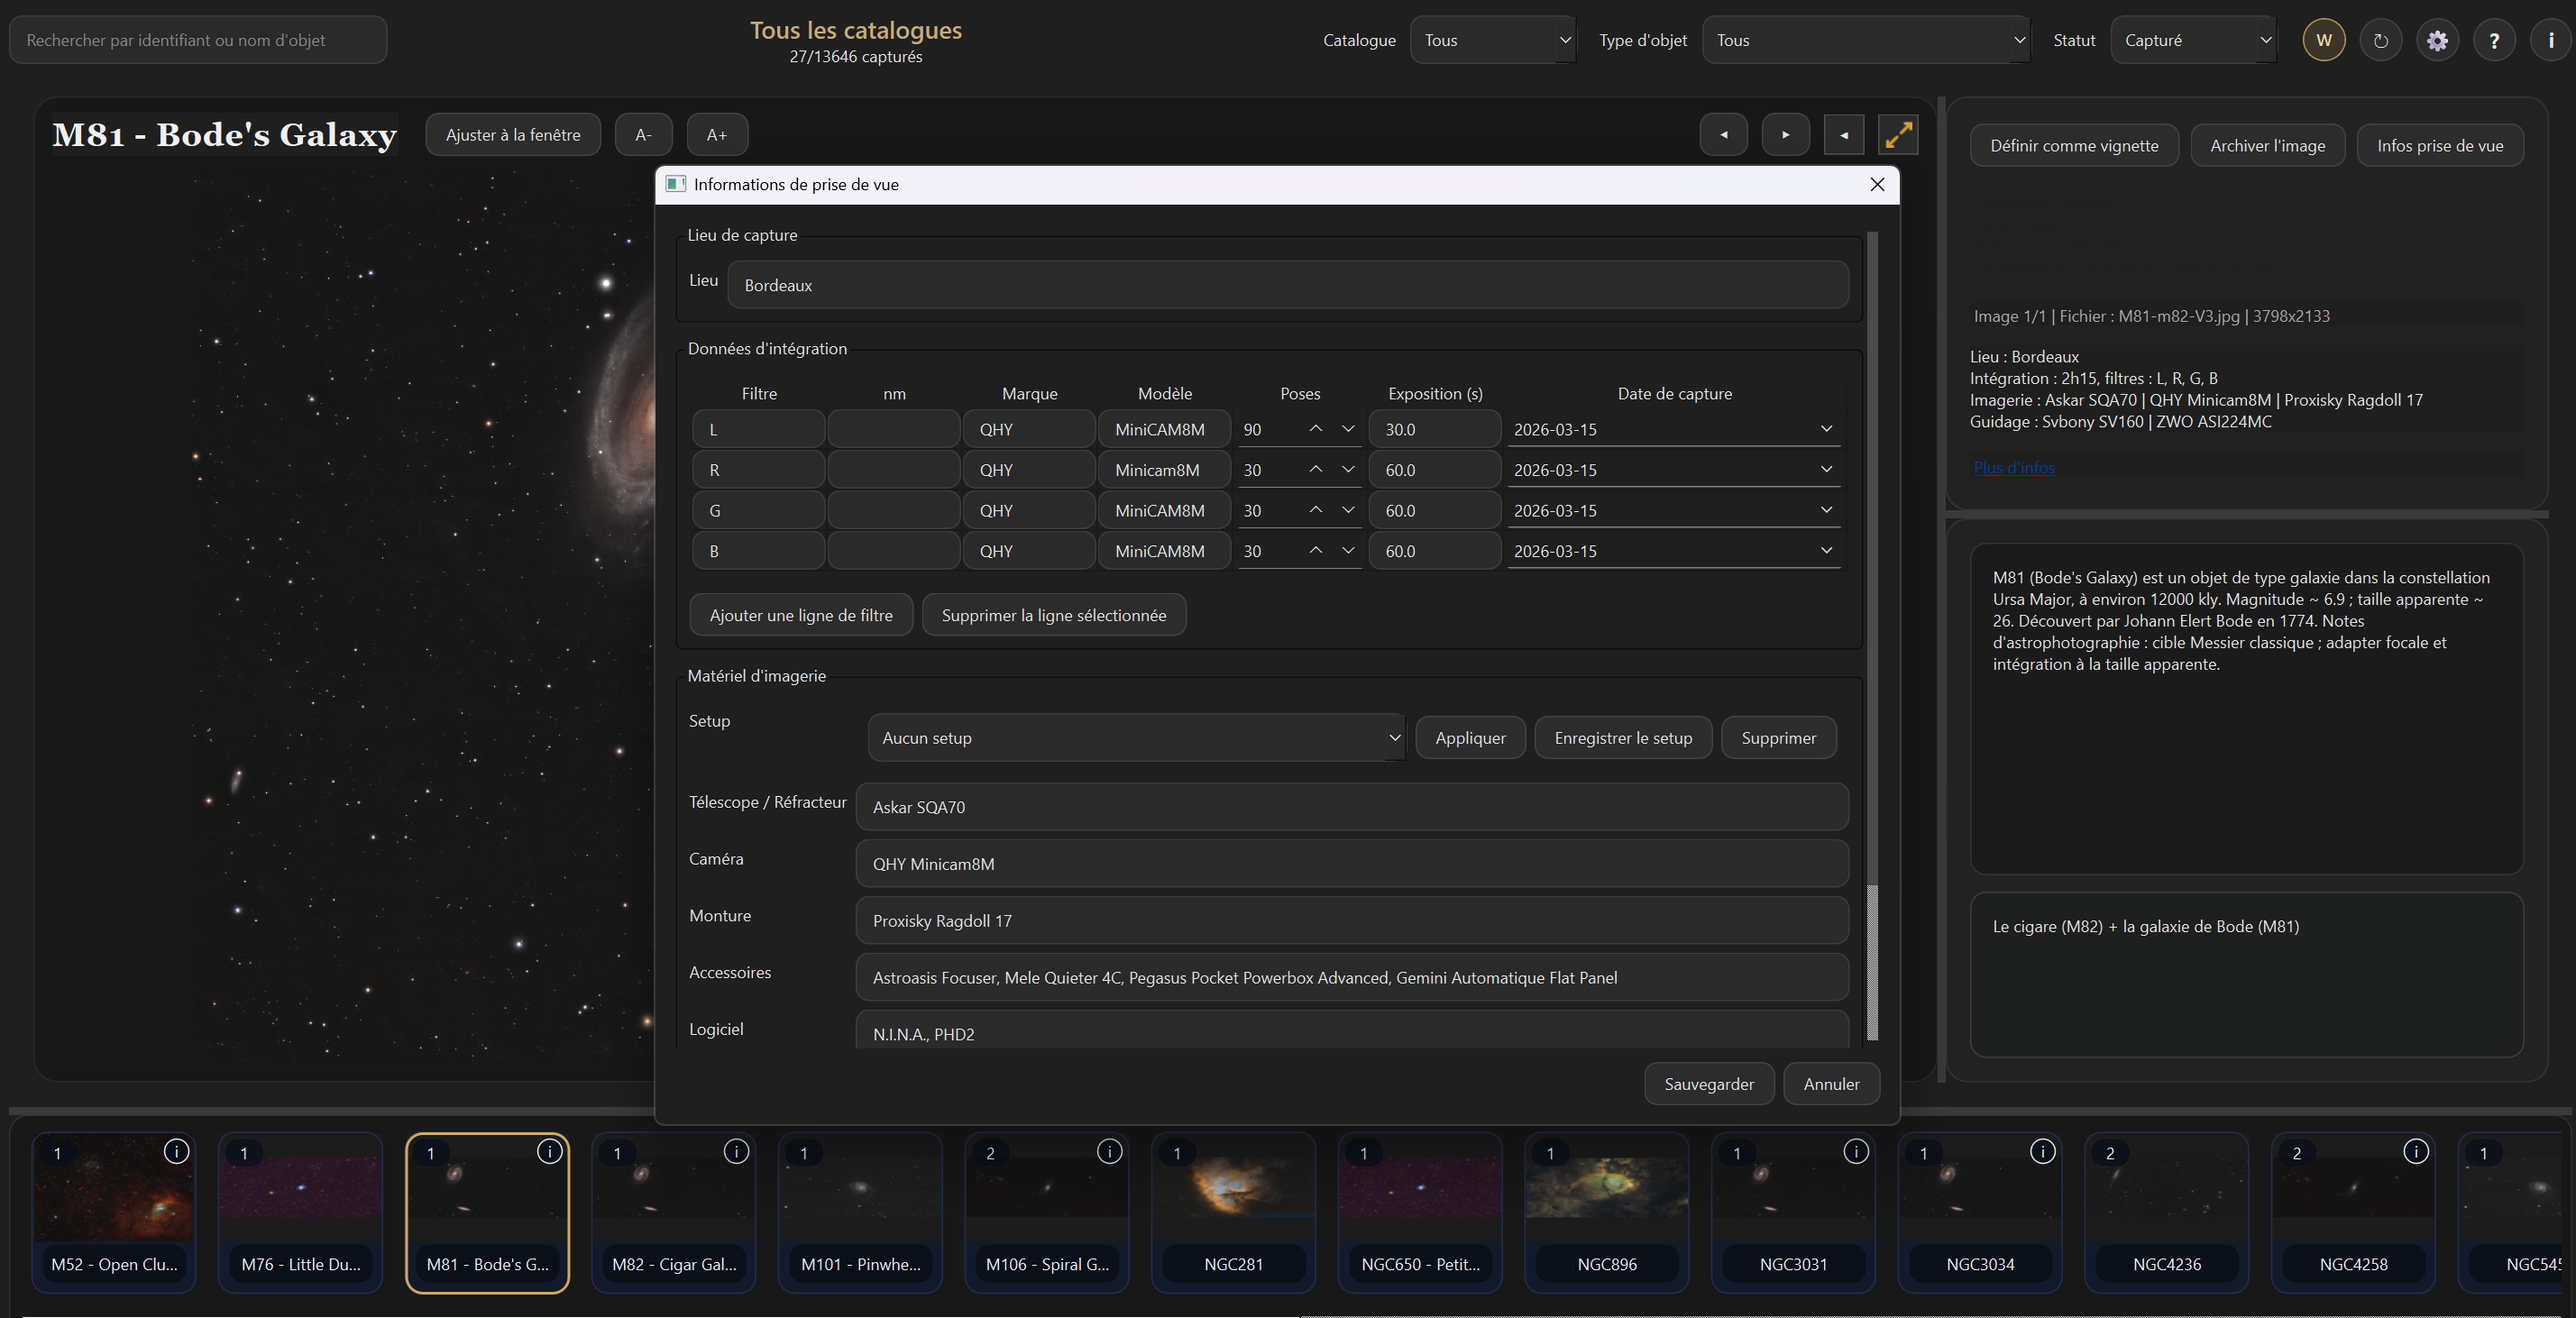
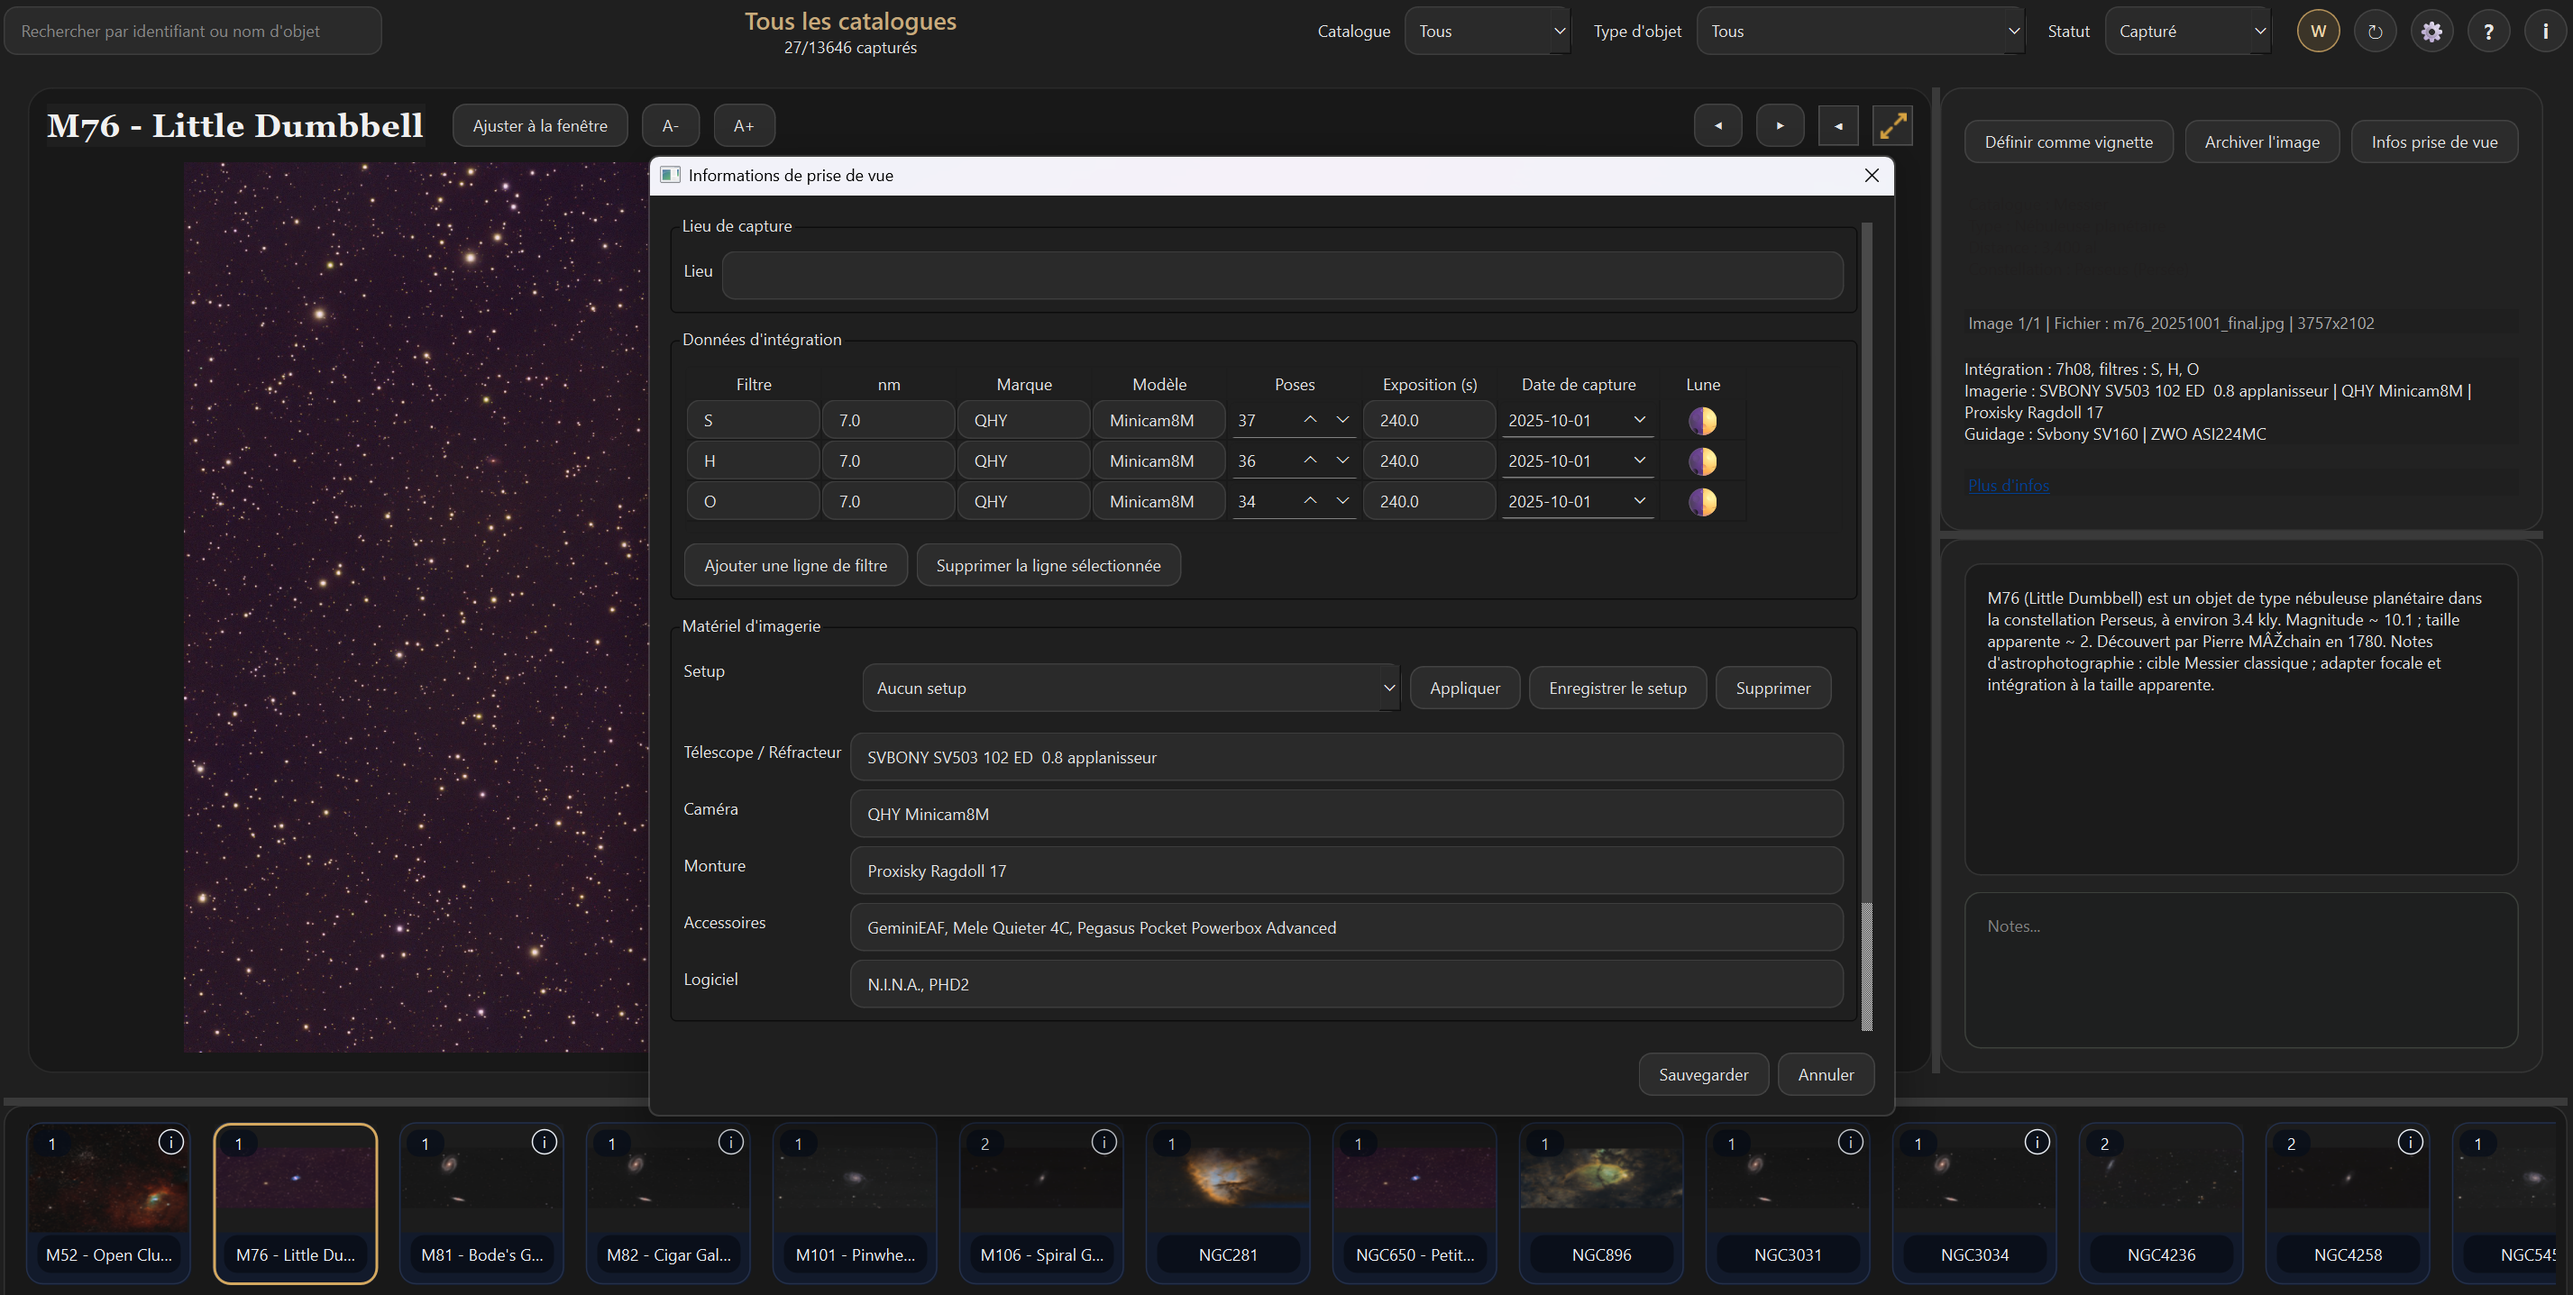
preparing 1.6.1

diff --git a/app/main.py b/app/main.py
@@ -1750,7 +1750,7 @@ class ImagingInfoDialog(QtWidgets.QDialog):
 
         year = int(date_value.year())
         month = int(date_value.month())
-        day = float(date_value.day()) + 0.5
+        day = float(date_value.day())
 
         if month < 3:
             year -= 1

diff --git a/CHANGELOG.md b/CHANGELOG.md
@@ -2,6 +2,9 @@
 
 All notable changes to this project are documented in this file.
 
+## [1.6.1] - 2026-05-05
+### Added
+- **UI:** Moon phase calculation when entering date on filter line
 
 ## [1.6.0] - 2026-05-03
 First stable release (leaving beta)

diff --git a/README.md b/README.md
@@ -12,7 +12,7 @@ Copyright and attribution details: [COPYRIGHT](COPYRIGHT).
 
 Status: stable
 
-Latest release: `1.6.0`
+Latest release: `1.6.1`
 
 Release history: [CHANGELOG.md](CHANGELOG.md)
 
